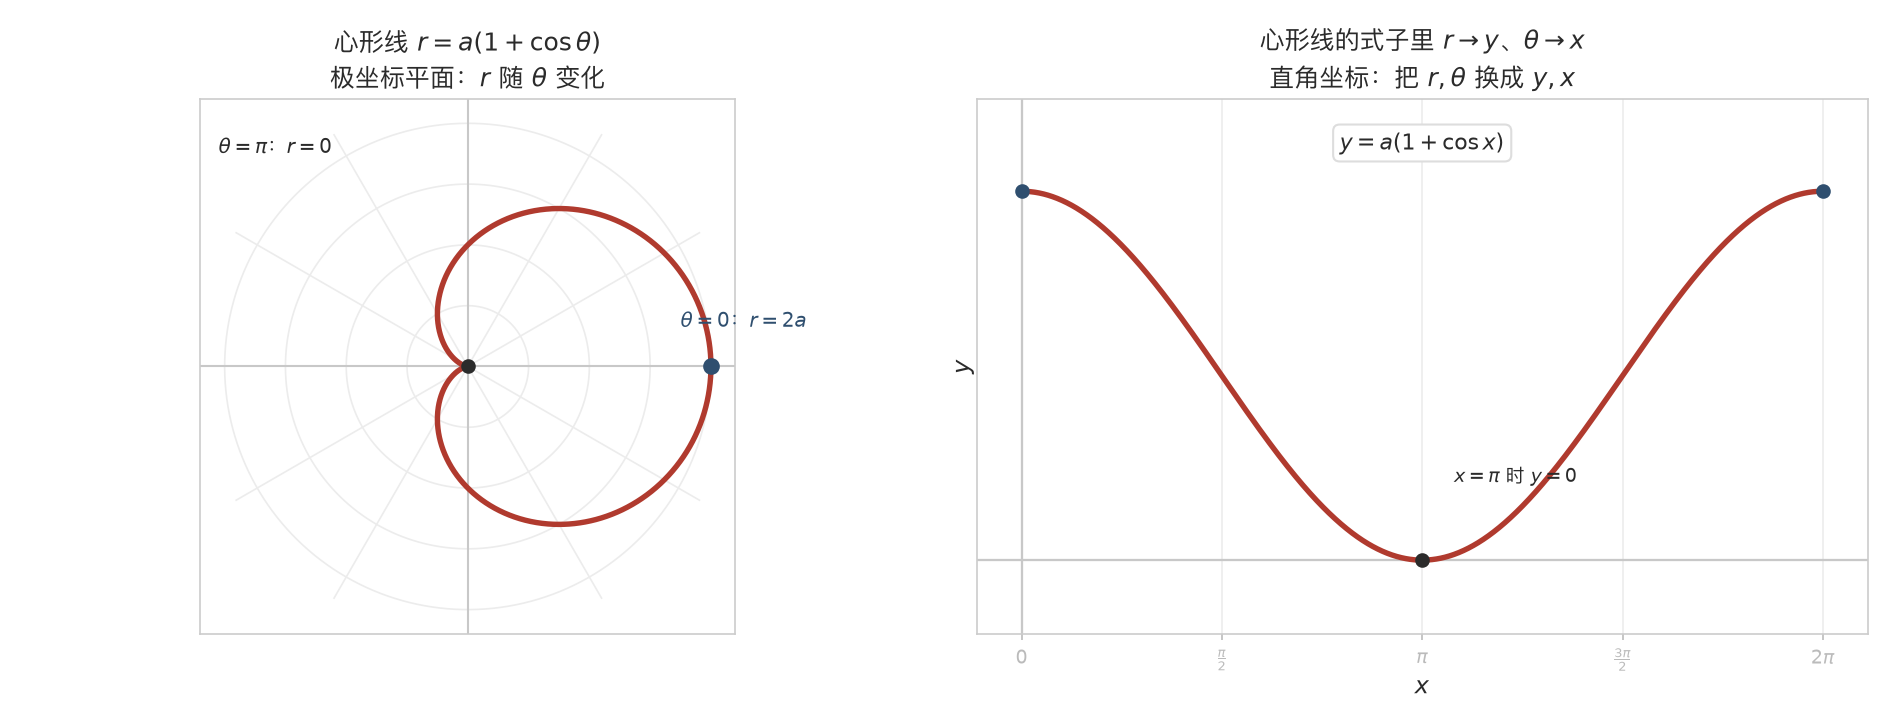
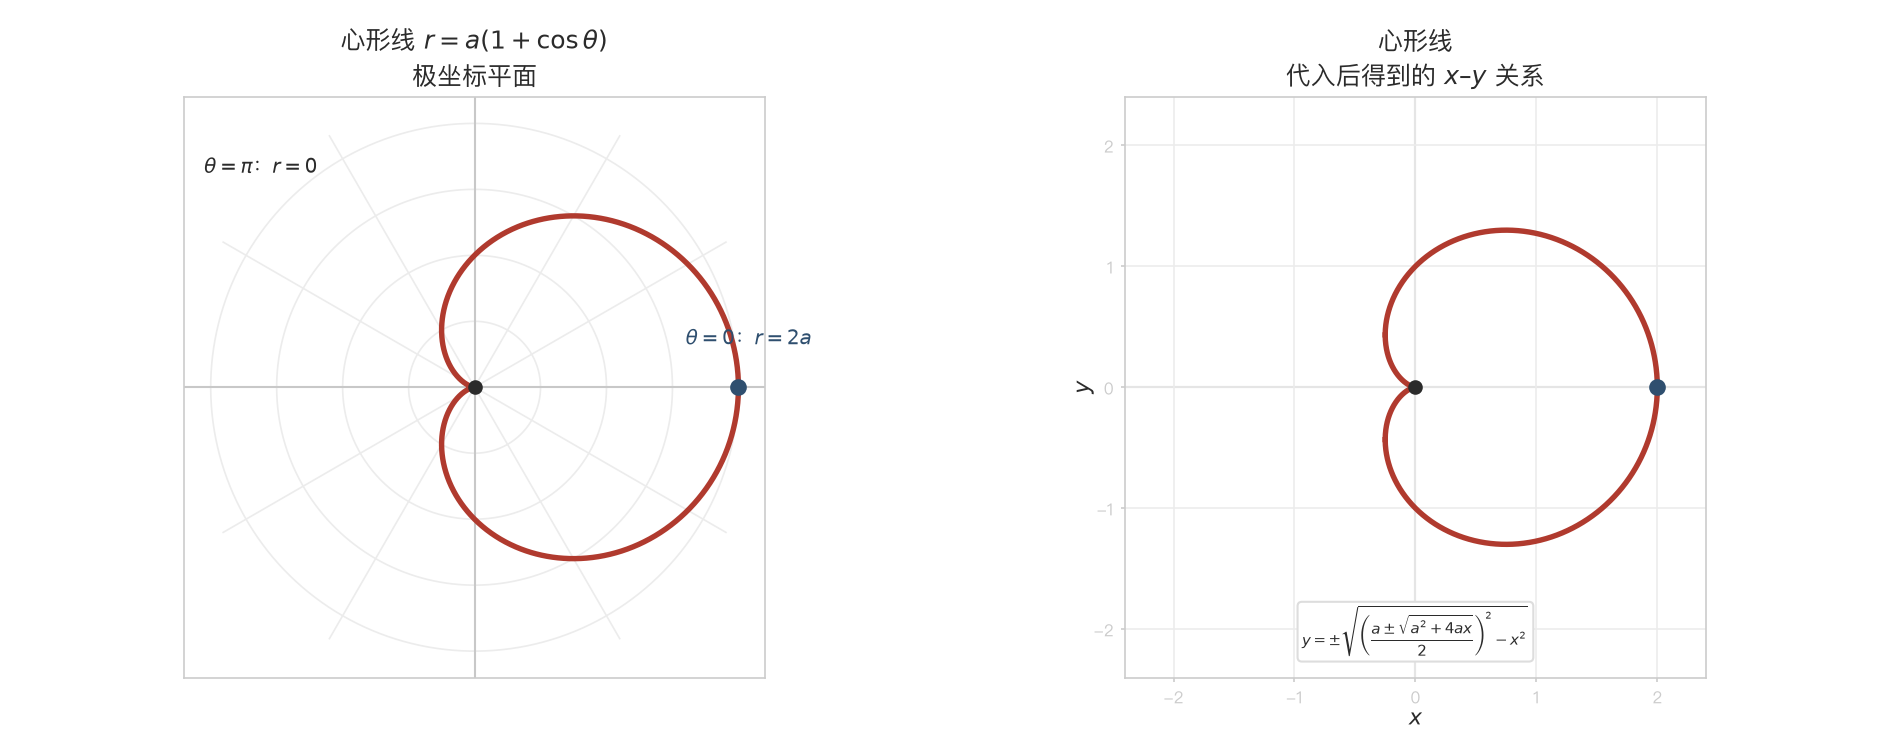
img: cartesian panels show substituted equation's curve

diff --git a/img/kaoyan-math/make_polar_curve_figs.py b/img/kaoyan-math/make_polar_curve_figs.py
@@ -27,52 +27,60 @@ def polar_axes(ax, lim, title):
     ax.set_aspect("equal"); ax.set_xticks([]); ax.set_yticks([])
     for sp in ax.spines.values():
         sp.set_color("#cccccc")
-    ax.set_title(title + "\n极坐标平面：$r$ 随 $\\theta$ 变化", fontsize=T, color=INK, pad=6)
+    ax.set_title(title + "\n极坐标平面", fontsize=T, color=INK, pad=6)
 
 
-def yx_axes(ax, xlim, ylim, title, eq, ticks=None, ticks_are_pi=True):
-    ax.set_xlim(*xlim); ax.set_ylim(*ylim)
+def cart_axes(ax, lim, title, eq, note="", eqfont=None):
+    ax.set_xlim(-lim, lim); ax.set_ylim(-lim, lim)
+    ax.set_aspect("equal")
     ax.grid(True, color="#ececec", lw=0.8)
-    ax.axhline(0, color="#c8c8c8", lw=1.1, zorder=2)
-    ax.axvline(0, color="#c8c8c8", lw=1.1, zorder=2)
-    if ticks is None:
-        ticks = [0, PI / 2, PI, 3 * PI / 2, 2 * PI]
-    labels = [r"$0$", r"$\frac{\pi}{2}$", r"$\pi$", r"$\frac{3\pi}{2}$", r"$2\pi$"]
-    if ticks_are_pi:
-        ax.set_xticks(ticks)
-        ax.set_xticklabels(labels[:len(ticks)], fontsize=F - 2.5, color=INK)
-    ax.set_yticks([])
-    ax.tick_params(axis="x", colors="#bbbbbb", length=3)
+    ax.axhline(0, color="#c8c8c8", lw=1.0, zorder=1)
+    ax.axvline(0, color="#c8c8c8", lw=1.0, zorder=1)
+    tk = [t for t in (-2, -1, 0, 1, 2, 3) if -lim < t < lim]
+    ax.set_xticks(tk); ax.set_yticks(tk)
+    ax.set_xticklabels([str(t) for t in tk], fontsize=F - 3.5, color="#999999")
+    ax.set_yticklabels([str(t) for t in tk], fontsize=F - 3.5, color="#999999")
+    ax.tick_params(length=2, colors="#cccccc")
     for sp in ax.spines.values():
         sp.set_color("#cccccc")
-    ax.set_title(title + "\n直角坐标：把 $r,\\theta$ 换成 $y,x$", fontsize=T, color=INK, pad=6)
-    ax.set_xlabel("$x$", fontsize=F, color=INK, labelpad=1)
-    ax.set_ylabel("$y$", fontsize=F, color=INK, labelpad=1)
-    ax.text(0.5, 0.94, eq, transform=ax.transAxes, fontsize=F - 1, color=INK,
-            ha="center", va="top", bbox=BOX)
+    ax.set_xlabel("$x$", fontsize=F - 1, color=INK, labelpad=0)
+    ax.set_ylabel("$y$", fontsize=F - 1, color=INK, labelpad=0)
+    ax.set_title(title + "\n代入后得到的 $x$–$y$ 关系", fontsize=T, color=INK, pad=6)
+    ax.text(0.5, 0.035, eq, transform=ax.transAxes,
+            fontsize=(eqfont if eqfont else F - 2), color=INK,
+            ha="center", va="bottom", bbox=BOX)
+    if note:
+        ax.text(0.5, 0.135, note, transform=ax.transAxes, fontsize=F - 3.5,
+                color=GREY, ha="center", va="bottom")
 
 
 # ============ 1 心形线 ============
 a = 1.0
 th = np.linspace(0, 2 * np.pi, 2000)
 r = a * (1 + np.cos(th))
-fig, axes = plt.subplots(1, 2, figsize=(12.6, 4.8), dpi=150)
+fig, axes = plt.subplots(1, 2, figsize=(12.6, 5.0), dpi=150)
 
 ax = axes[0]
 polar_axes(ax, 2.2, "心形线 $r=a(1+\\cos\\theta)$")
 ax.plot(r * np.cos(th), r * np.sin(th), color=RED, lw=2.6, zorder=3)
 ax.plot([0], [0], "o", color=INK, ms=6, zorder=6)
 ax.plot([2 * a], [0], "o", color=BLUE, ms=7, zorder=6)
-ax.text(1.75, 0.32, "$\\theta=0$：$r=2a$", fontsize=F - 2, color=BLUE)
-ax.text(-2.05, 1.75, "$\\theta=\\pi$：$r=0$", fontsize=F - 2, color=INK)
+ax.text(1.60, 0.32, "$\\theta=0$：$r=2a$", fontsize=F - 2, color=BLUE)
+ax.text(-2.05, 1.62, "$\\theta=\\pi$：$r=0$", fontsize=F - 2, color=INK)
 
 ax = axes[1]
-yx_axes(ax, (-0.35, 2 * PI + 0.35), (-0.4, 2.5), "心形线的式子里 $r\\to y$、$\\theta\\to x$",
-        "$y=a(1+\\cos x)$")
-ax.plot(th, r, color=RED, lw=2.6, zorder=3)
-ax.plot([0, 2 * PI], [2, 2], "o", color=BLUE, ms=6, zorder=5)
-ax.plot([PI], [0], "o", color=INK, ms=6, zorder=5)
-ax.text(PI + 0.25, 0.42, "$x=\\pi$ 时 $y=0$", fontsize=F - 2.5, color=INK)
+cart_axes(ax, 2.4, "心形线",
+          "$y=\\pm\\sqrt{\\left(\\dfrac{a\\pm\\sqrt{a^{2}+4ax}}{2}\\right)^{2}-x^{2}}$", eqfont=F - 4.5)
+xs = np.linspace(-a / 4, 2 * a, 3000)
+sp = np.sqrt(a * a + 4 * a * xs)
+for sgn in (1, -1):
+    t = (a + sgn * sp) / 2
+    y2 = t * t - xs * xs
+    m = y2 >= 0
+    ax.plot(xs[m], np.sqrt(y2[m]), color=RED, lw=2.6, zorder=3)
+    ax.plot(xs[m], -np.sqrt(y2[m]), color=RED, lw=2.6, zorder=3)
+ax.plot([0], [0], "o", color=INK, ms=6, zorder=6)
+ax.plot([2 * a], [0], "o", color=BLUE, ms=7, zorder=6)
 
 fig.tight_layout(); fig.savefig(BASE + "pc-cardioid.png", dpi=150); plt.close(fig)
 
@@ -80,64 +88,58 @@ fig.tight_layout(); fig.savefig(BASE + "pc-cardioid.png", dpi=150); plt.close(fi
 # ============ 2 玫瑰线 ============
 r3 = np.sin(3 * th)
 r4 = np.cos(2 * th)
-fig, axes = plt.subplots(2, 2, figsize=(12.6, 9.2), dpi=150)
+fig, axes = plt.subplots(2, 2, figsize=(12.6, 9.6), dpi=150)
 
 ax = axes[0][0]
 polar_axes(ax, 1.35, "三叶玫瑰线 $r=a\\sin 3\\theta$")
 ax.plot(r3 * np.cos(th), r3 * np.sin(th), color=ORANGE, lw=2.4, zorder=3)
-ax.text(-1.30, -1.22, "$n$ 为奇数：3 片", fontsize=F - 2.5, color=INK)
+ax.text(-1.30, -1.22, "3 片", fontsize=F - 2.5, color=INK)
 
 ax = axes[0][1]
-yx_axes(ax, (-0.35, 2 * PI + 0.35), (-1.45, 1.45), "三叶玫瑰线的式子里 $r\\to y$、$\\theta\\to x$",
-        "$y=a\\sin 3x$")
-ax.plot(th, r3, color=ORANGE, lw=2.4, zorder=3)
+cart_axes(ax, 1.45, "三叶玫瑰线", "$\\left(x^{2}+y^{2}\\right)^{2}=ay\\left(3x^{2}-y^{2}\\right)$",
+          note="关于 $y$ 是四次方程，解不成 $y=f(x)$", eqfont=F - 3.5)
+ax.plot(r3 * np.cos(th), r3 * np.sin(th), color=ORANGE, lw=2.4, zorder=3)
 
 ax = axes[1][0]
 polar_axes(ax, 1.35, "四叶玫瑰线 $r=a\\cos 2\\theta$")
 ax.plot(r4 * np.cos(th), r4 * np.sin(th), color=GREEN, lw=2.4, zorder=3)
-ax.text(-1.30, -1.22, "$n$ 为偶数：4 片", fontsize=F - 2.5, color=INK)
+ax.text(-1.30, -1.22, "4 片", fontsize=F - 2.5, color=INK)
 
 ax = axes[1][1]
-yx_axes(ax, (-0.35, 2 * PI + 0.35), (-1.45, 1.45), "四叶玫瑰线的式子里 $r\\to y$、$\\theta\\to x$",
-        "$y=a\\cos 2x$")
-ax.plot(th, r4, color=GREEN, lw=2.4, zorder=3)
+cart_axes(ax, 1.45, "四叶玫瑰线", "$\\left(x^{2}+y^{2}\\right)^{3}=a^{2}\\left(x^{2}-y^{2}\\right)^{2}$",
+          note="关于 $y$ 是六次方程，解不成 $y=f(x)$", eqfont=F - 3.5)
+ax.plot(r4 * np.cos(th), r4 * np.sin(th), color=GREEN, lw=2.4, zorder=3)
 
 fig.tight_layout(); fig.savefig(BASE + "pc-rose.png", dpi=150); plt.close(fig)
 
 
 # ============ 3 双纽线 ============
 a = 1.2
-t2 = np.concatenate([np.linspace(-PI / 4, PI / 4, 900), np.linspace(3 * PI / 4, 5 * PI / 4, 900)])
-r2 = a * np.sqrt(np.cos(2 * t2))
-fig, axes = plt.subplots(1, 2, figsize=(12.6, 4.8), dpi=150)
+fig, axes = plt.subplots(1, 2, figsize=(12.6, 5.0), dpi=150)
 
 ax = axes[0]
 polar_axes(ax, 1.75, "双纽线 $r^{2}=a^{2}\\cos 2\\theta$")
+t2 = np.concatenate([np.linspace(-PI / 4, PI / 4, 900), np.linspace(3 * PI / 4, 5 * PI / 4, 900)])
+r2 = a * np.sqrt(np.cos(2 * t2))
 ax.plot(r2 * np.cos(t2), r2 * np.sin(t2), color=BLUE, lw=2.6, zorder=3)
 ax.plot([0], [0], "o", color=INK, ms=6, zorder=6)
 ax.plot([a, -a], [0, 0], "o", color=RED, ms=7, zorder=6)
 ax.text(-1.70, -1.32, "只在 $\\cos 2\\theta\\geq0$ 处有图形", fontsize=F - 2.5, color=INK)
 
 ax = axes[1]
-yx_axes(ax, (-1.15, 4.35), (-1.50, 1.55), "双纽线的式子里 $r\\to y$、$\\theta\\to x$",
-        "$y^{2}=a^{2}\\cos 2x$", ticks=[0, PI / 2, PI], )
-ax.set_xticks([0, PI / 2, PI])
-ax.set_xticklabels([r"$0$", r"$\frac{\pi}{2}$", r"$\pi$"], fontsize=F - 2.5, color=INK)
-tt = np.linspace(-PI / 4, PI / 4, 500)
-ax.plot(tt, a * np.sqrt(np.cos(2 * tt)), color=BLUE, lw=2.6, zorder=3)
-ax.plot(tt, -a * np.sqrt(np.cos(2 * tt)), color=BLUE, lw=2.6, zorder=3)
-tt2 = np.linspace(3 * PI / 4, 5 * PI / 4, 500)
-ax.plot(tt2, a * np.sqrt(np.cos(2 * tt2)), color=BLUE, lw=2.6, zorder=3)
-ax.plot(tt2, -a * np.sqrt(np.cos(2 * tt2)), color=BLUE, lw=2.6, zorder=3)
-for st in (-PI / 4, PI / 4, 3 * PI / 4, 5 * PI / 4):
-    ax.axvline(st, color="#e0c8c8", lw=1.0, ls="--", zorder=1)
-ax.text(0.15, 1.32, "$\\cos 2x\\geq0$ 的两段各画出一对分支", fontsize=F - 3, color=BLUE)
+cart_axes(ax, 1.85, "双纽线", "$y=\\pm\\sqrt{\\dfrac{a\\sqrt{8x^{2}+a^{2}}-\\left(2x^{2}+a^{2}\\right)}{2}}$", eqfont=F - 4.5)
+xs = np.linspace(-a, a, 3000)
+ys = np.sqrt(np.maximum((a * np.sqrt(8 * xs * xs + a * a) - (2 * xs * xs + a * a)) / 2, 0))
+ax.plot(xs, ys, color=BLUE, lw=2.6, zorder=3)
+ax.plot(xs, -ys, color=BLUE, lw=2.6, zorder=3)
+ax.plot([0], [0], "o", color=INK, ms=6, zorder=6)
+ax.plot([a, -a], [0, 0], "o", color=RED, ms=7, zorder=6)
 
 fig.tight_layout(); fig.savefig(BASE + "pc-lemniscate.png", dpi=150); plt.close(fig)
 
 
 # ============ 4 阿基米德螺线 ============
-fig, axes = plt.subplots(1, 2, figsize=(12.6, 4.8), dpi=150)
+fig, axes = plt.subplots(1, 2, figsize=(12.6, 5.0), dpi=150)
 th3 = np.linspace(0, 3 * PI, 1200)
 r3s = 0.5 * th3
 
@@ -147,17 +149,15 @@ ax.plot(r3s * np.cos(th3), r3s * np.sin(th3), color=ORANGE, lw=2.4, zorder=3)
 ax.text(-4.85, 4.55, "每转一圈，$r$ 加 $2\\pi a$", fontsize=F - 2, color=INK)
 
 ax = axes[1]
-yx_axes(ax, (-0.35, 3 * PI + 0.35), (-0.6, 5.4), "阿基米德螺线的式子里 $r\\to y$、$\\theta\\to x$",
-        "$y=ax$", ticks=[0, PI, 2 * PI, 3 * PI])
-ax.set_xticks([0, PI, 2 * PI, 3 * PI])
-ax.set_xticklabels([r"$0$", r"$\pi$", r"$2\pi$", r"$3\pi$"], fontsize=F - 2.5, color=INK)
-ax.plot(th3, r3s, color=ORANGE, lw=2.6, zorder=3)
+cart_axes(ax, 5.0, "阿基米德螺线", "$\\sqrt{x^{2}+y^{2}}=a\\arctan\\dfrac{y}{x}$",
+          note="左端含反正切，解不成 $y=f(x)$", eqfont=F - 3.5)
+ax.plot(r3s * np.cos(th3), r3s * np.sin(th3), color=ORANGE, lw=2.4, zorder=3)
 
 fig.tight_layout(); fig.savefig(BASE + "pc-spiral-arch.png", dpi=150); plt.close(fig)
 
 
 # ============ 5 对数螺线 ============
-fig, axes = plt.subplots(1, 2, figsize=(12.6, 4.8), dpi=150)
+fig, axes = plt.subplots(1, 2, figsize=(12.6, 5.0), dpi=150)
 th4 = np.linspace(0, 3 * PI, 1600)
 r4s = np.exp(0.28 * th4)
 
@@ -167,11 +167,9 @@ ax.plot(r4s * np.cos(th4), r4s * np.sin(th4), color=GREEN, lw=2.2, zorder=3)
 ax.text(-14.2, 12.2, "每转一圈，$r$ 乘 $e^{2\\pi a}$", fontsize=F - 2, color=INK)
 
 ax = axes[1]
-yx_axes(ax, (-0.35, 3 * PI + 0.35), (-0.6, 15.2), "对数螺线的式子里 $r\\to y$、$\\theta\\to x$",
-        "$y=e^{ax}$", ticks=[0, PI, 2 * PI, 3 * PI])
-ax.set_xticks([0, PI, 2 * PI, 3 * PI])
-ax.set_xticklabels([r"$0$", r"$\pi$", r"$2\pi$", r"$3\pi$"], fontsize=F - 2.5, color=INK)
-ax.plot(th4, r4s, color=GREEN, lw=2.6, zorder=3)
+cart_axes(ax, 14.6, "对数螺线", "$\\sqrt{x^{2}+y^{2}}=e^{a\\arctan\\frac{y}{x}}$",
+          note="同样带反正切，解不成 $y=f(x)$", eqfont=F - 3.5)
+ax.plot(r4s * np.cos(th4), r4s * np.sin(th4), color=GREEN, lw=2.2, zorder=3)
 
 fig.tight_layout(); fig.savefig(BASE + "pc-spiral-log.png", dpi=150); plt.close(fig)
 print("done")
